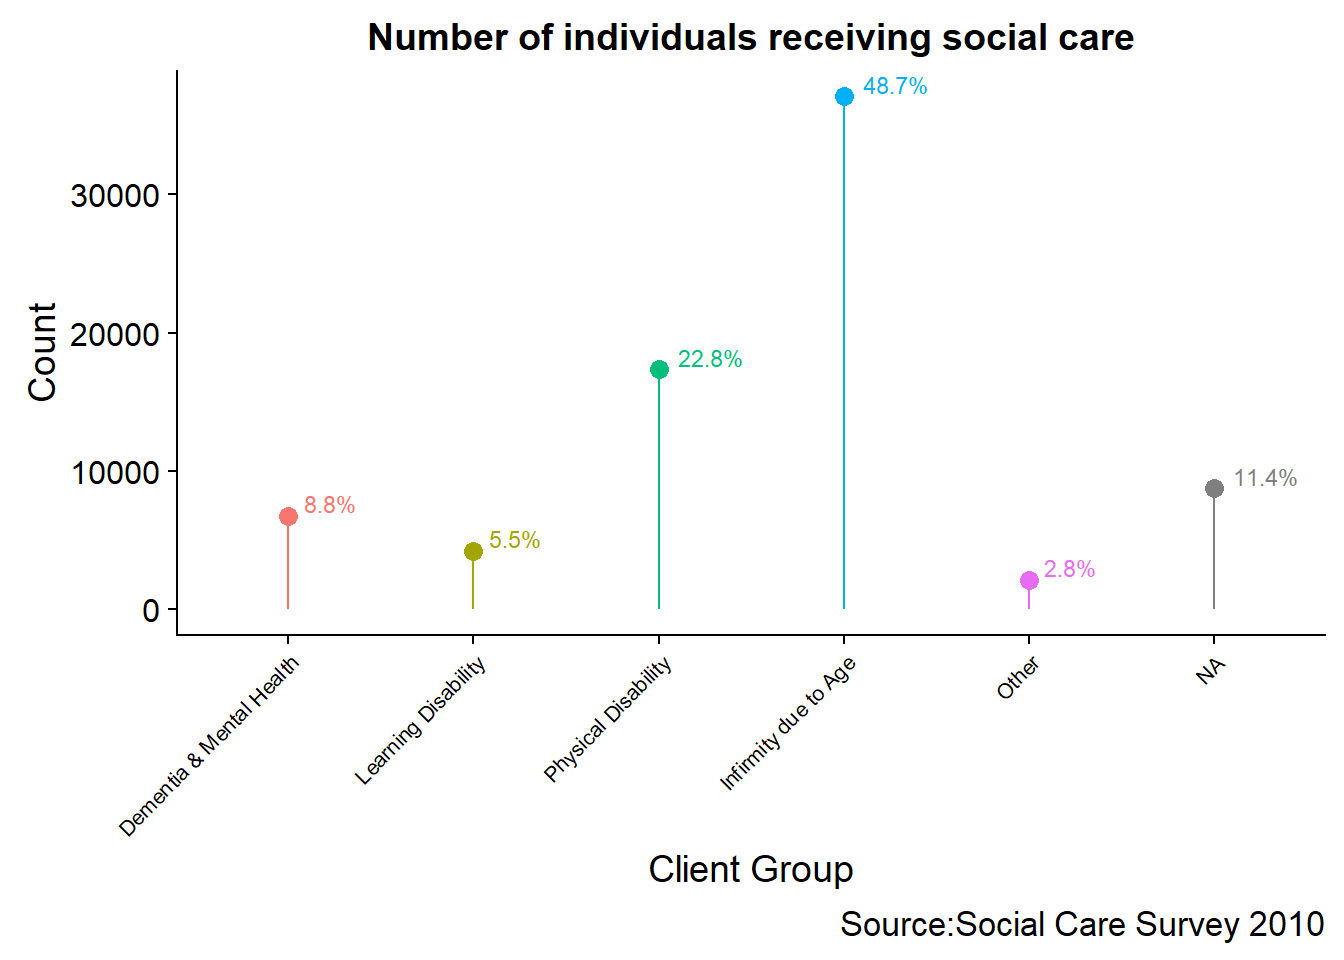
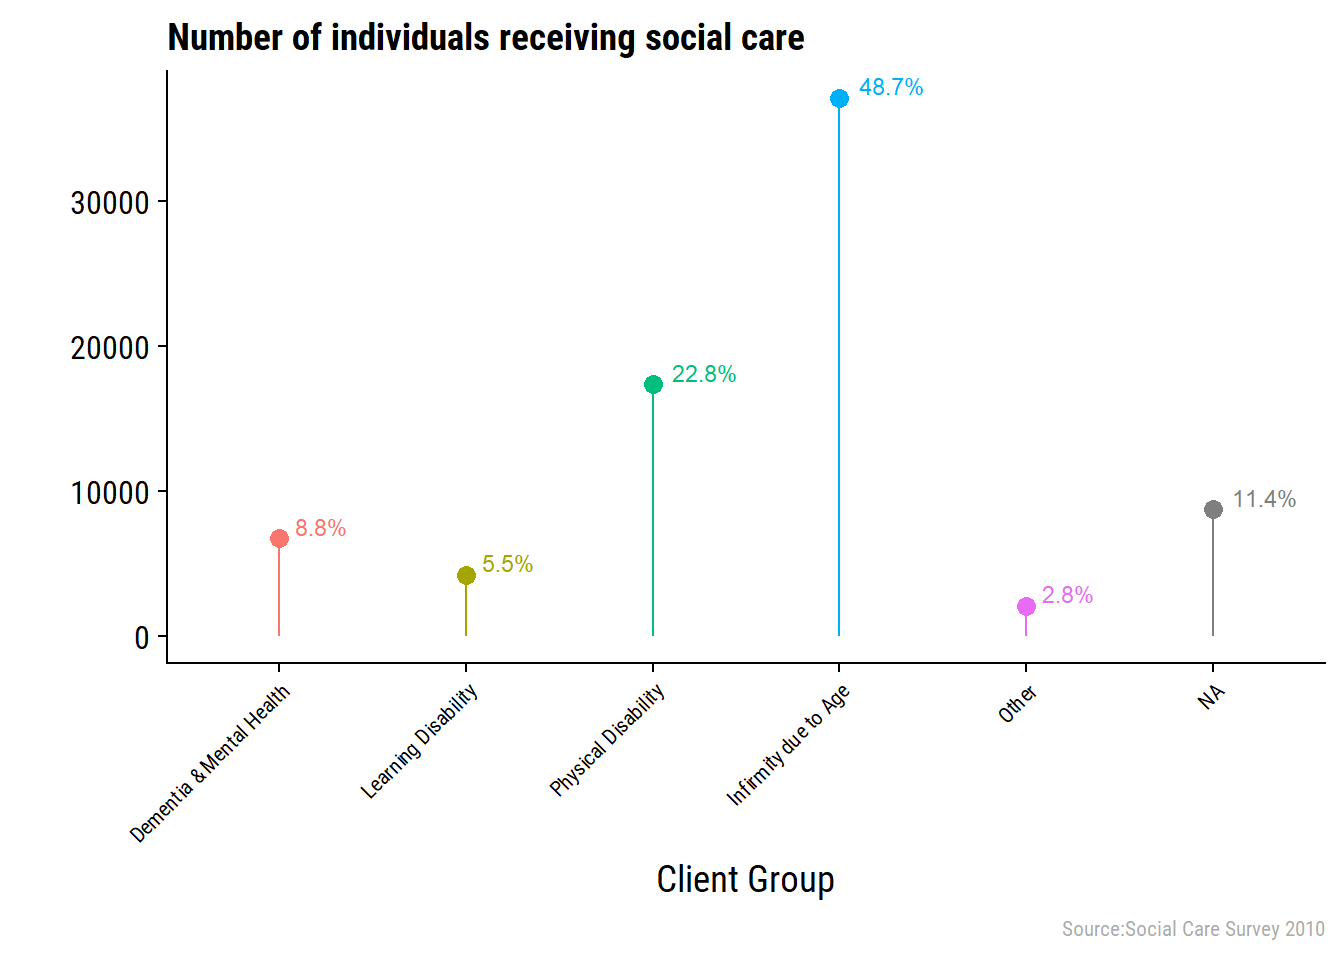
Build site.

diff --git a/docs/02_2010_eda.html b/docs/02_2010_eda.html
@@ -353,7 +353,7 @@ shared across the workflowr files. -->
 <p><strong>Last updated:</strong> 2018-02-07</p>
 <!-- Insert the code version (Git commit SHA1) if Git repository exists and R
  package git2r is installed -->
-<p><strong>Code version:</strong> c5da4c5</p>
+<p><strong>Code version:</strong> 0c66685</p>
 <!-- Add your analysis here -->
 <div id="introduction" class="section level1">
 <h1>Introduction</h1>
@@ -373,6 +373,8 @@ library(ggplot2)
 library(ggalt)
 library(cowplot)
 library(skimr)
+library(extrafont)
+theme_set(theme_cowplot(font_family = &quot;Roboto Condensed&quot;))
 ubdc_palette &lt;- c(&quot;#13AFD6&quot;, &quot;#E6E600&quot;, &quot;#F07329&quot;, &quot;#35B14E&quot;, &quot;#D7509A&quot;, &quot;#2165AF&quot;,
                   &quot;#BCD032&quot;,&quot;#866BAC&quot;, &quot;#545A5D&quot;,  &quot;#7A8082&quot;, &quot;#E2D988&quot;, &quot;#628DB7&quot;,
                   &quot;#929B9A&quot;, &quot;#93B8DA&quot;, &quot;#31649B&quot;, &quot;#FBF8D0&quot;, &quot;#ACB2B4&quot;, &quot;#D1DAE2&quot;)</code></pre>
@@ -648,7 +650,7 @@ source(&quot;/GitHub/Scottish_Social_Care_Open_Data/code/x_45.R&quot;)</code></p
  digest         0.6.15  2018-01-28 CRAN (R 3.4.3)
  dplyr        * 0.7.4   2017-09-28 CRAN (R 3.4.2)
  evaluate       0.10.1  2017-06-24 CRAN (R 3.4.2)
- extrafont      0.17    2014-12-08 CRAN (R 3.4.1)
+ extrafont    * 0.17    2014-12-08 CRAN (R 3.4.1)
  extrafontdb    1.0     2012-06-11 CRAN (R 3.4.1)
  ggalt        * 0.4.0   2017-02-15 CRAN (R 3.4.3)
  ggplot2      * 2.2.1   2016-12-30 CRAN (R 3.4.2)
